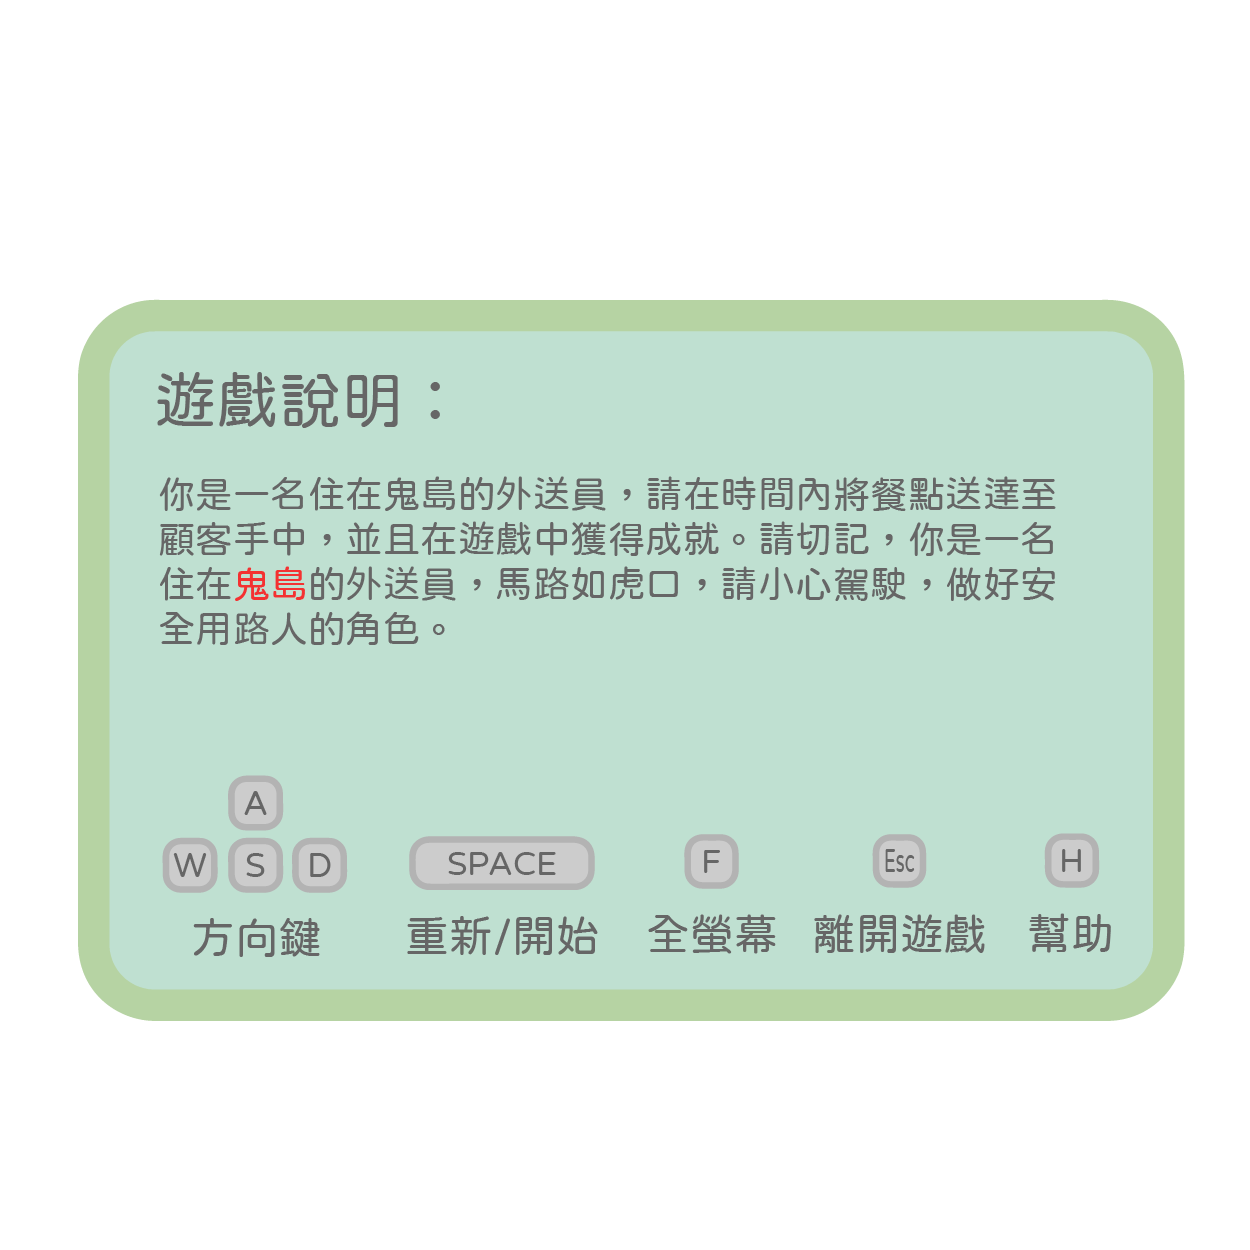
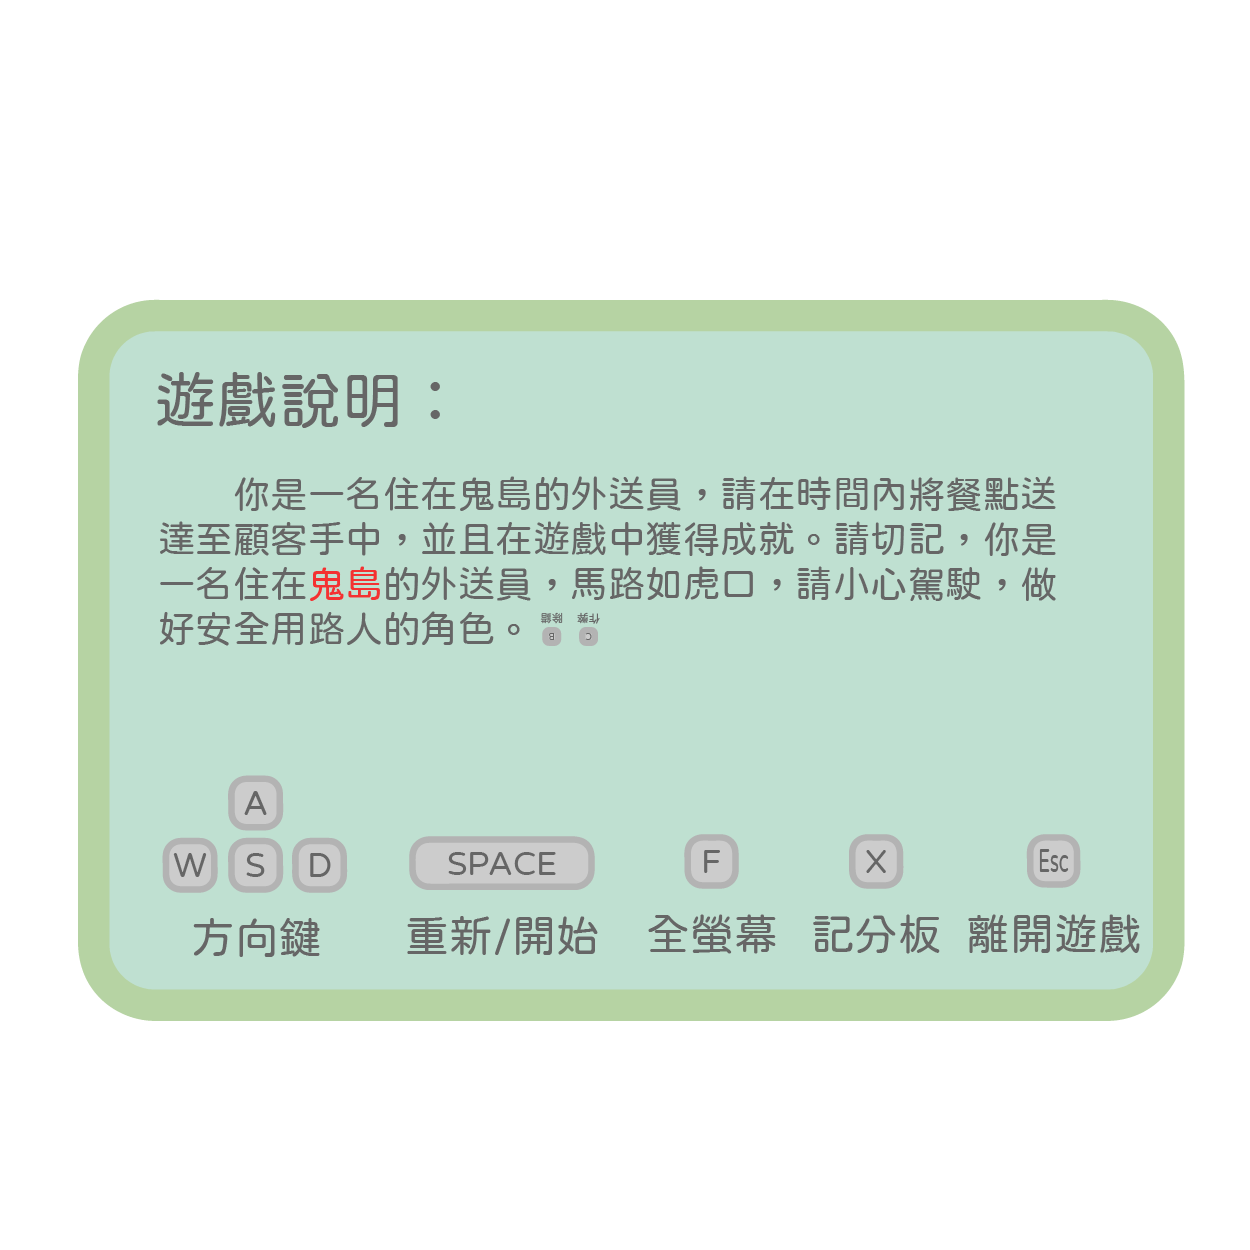
加入計分系統

Changed region(s): [[0.1248, 0.3744, 0.8424, 0.5304], [0.6552, 0.6552, 0.9048, 0.78]]

diff --git a/Project1/classDef.h b/Project1/classDef.h
@@ -856,12 +856,18 @@ class GameArchiv{
 public:
 	typedef struct ArchivData{
 		char header[4];
-		int reverse_car;
-		int xcross_road;
+		char field[7][16];
+		int total;
+		int timeup;
+		int success;
 		int road_hole;
 		int road_fire;
+		int xcross_road;
+		int reverse_car;
 	}ArchivData;
-	ArchivData aData={"RGL",0,0,0,0};
+	ArchivData aData={	"RGL",
+						{"TOTAL","TIMEUP","SUCCESS","HOLE","FIRE","XCROSS ROAD","REVERSE CAR"},
+						0,0,0,0,0,0,0};
 	FILE *archivLOG=NULL;
 
 	GameArchiv(){
@@ -875,27 +881,42 @@ public:
 	}
 	~GameArchiv(){}
 
-	void writeData(TYPE t){
+	void writeData(Player *p){
 		rewind(archivLOG);
 
-		switch(t){
-			case ELDER_R:
-			case ELDER_L:
-				aData.xcross_road++;
+		switch(p->status){
+			case DEAD:
+				{
+					switch(p->event){
+					case ELDER_R:
+					case ELDER_L:
+						aData.xcross_road++;
+						break;
+					case CAR:
+						aData.reverse_car++;
+						break;
+					case FIRE:
+						aData.road_fire++;
+						break;
+					case HOLE:
+						aData.road_hole++;
+						break;
+					default:
+						break;
+					}
+				}
 				break;
-			case CAR:
-				aData.reverse_car++;
+			case END:
+				aData.success++;
 				break;
-			case FIRE:
-				aData.road_fire++;
-				break;
-			case HOLE:
-				aData.road_hole++;
+			case TIMEUP:
+				aData.timeup++;
 				break;
 			default:
 				break;
 		}
 
+		aData.total++;
 		fwrite(&aData,sizeof(ArchivData),1,archivLOG);
 	}
 
@@ -906,22 +927,17 @@ public:
 	}
 
 	void ShowData(){
-		static GLfloat yaxis=2;
+		static GLfloat yaxis=3;
 		glDisable(GL_LIGHTING);
 		{
-			glColor3ub(0,0,0);
-			drawstr(0,yaxis,"hole:\t\t%d",aData.road_hole);
-			drawstr(0,yaxis+0.5,"fire:\t\t%d",aData.road_fire);
-			drawstr(0,yaxis+1.0,"xross road:\t\t%d",aData.xcross_road);
-			drawstr(0,yaxis+1.5,"reverse car:\t\t%d",aData.reverse_car);
+			glColor3ub(255,0,0);
+			for(int i=0;i<7;i++){
+				drawstr(-2,yaxis-0.5*i,"%-16s",aData.field[i]);
+				drawstr(1 ,yaxis-0.5*i,":%4d",*(&aData.total + i));
+
+				if(i==0) glColor3ub(0,0,0);
+			}
 		}
 		glEnable(GL_LIGHTING);
-
-		printf("++++++RGL++++++\n");
-		printf("reverse:%d\n",aData.reverse_car);
-		printf("hole:%d\n",aData.road_hole);
-		printf("fire:%d\n",aData.road_fire);
-		printf("xross:%d\n",aData.xcross_road);
-		printf("+++++++++++++++\n\n");
 	}
 };

diff --git a/Project1/basicFunc.cpp b/Project1/basicFunc.cpp
@@ -378,9 +378,9 @@ void keyboard(unsigned char key,int x,int y){
 			p1.status == DEAD   ||
 			p1.status == END) {
 			//TIMEUP跳轉頁面function
-			p1.status = GAME;
+			gameArchiv.writeData(&p1);//紀錄遊戲數據
 
-			gameArchiv.writeData(p1.event);//紀錄遊戲數據
+			p1.status = GAME;
 			initGame();
 		}
 		if (p1.status == MAIN_MENU){
@@ -395,10 +395,10 @@ void keyboard(unsigned char key,int x,int y){
 			p1.status == DEAD   ||
 			p1.status == END    ){
 			//回到主選單
+			gameArchiv.writeData(&p1);//紀錄遊戲數據
+
 			memset(p1.pos, 0, sizeof(p1.pos));
 			p1.status = MAIN_MENU;
-
-			gameArchiv.writeData(p1.event);//紀錄遊戲數據
 		}
 	}
 	if(key=='h'){

diff --git a/README.md b/README.md
@@ -1,18 +1,18 @@
 # **鬼島馬路**開發紀錄
 # 總結
 ### 迫切開發區
-- [ ] **背景貼圖**
-- [ ] 劇情線
-    - [ ] 時間到
-    - [ ] 死亡
-    - [ ] 成功
-    - [ ] 額外老師的劇情
+- [x] **背景貼圖**
+- [x] 劇情線
+    - [x] 時間到
+    - [x] 死亡
+    - [x] 成功
+    - [x] 額外老師的劇情
 - [ ] 模型(或許可加入顏色系統)
     - [x] 招牌
     - [x] 路洞
     - [x] 老奶奶
     - [x] 外送員
-    - [ ] **建築物**
+    - [x] **建築物**
     - [x] 地府火焰
     - [x] 汽車:逆向車
     - [ ] 汽車:十字路口
@@ -22,8 +22,8 @@
 - [x] ~~限制玩家的左右範圍侷限於馬路上~~
 ### 迫切修正區
 - [x] **超大大大BUGS**：按S煞車會來不及
-- [ ] **超大大大BUGS**：如果按下W前進，再左右移動，加速的效果會消失
-    - [ ] 考慮使用keyboardUpFunc偵測按鍵是否放開
+- [x] **超大大大BUGS**：如果按下W前進，再左右移動，加速的效果會消失
+    - [x] 考慮使用keyboardUpFunc偵測按鍵是否放開
 
 ### 新計畫
 - [ ] 新增`GameConfig`來讀取遊戲設定
@@ -40,7 +40,7 @@
     - [x] **C** cheating
     - [x] **B** DEBUG
     - [x] **H** helping
-    - [ ] **L** Log of game
+    - [x] **X** Log of game
     - [x] **F** fullscrn
     - [x] **R** go back to main_menu
     - [x] **V** aboutInfo;
